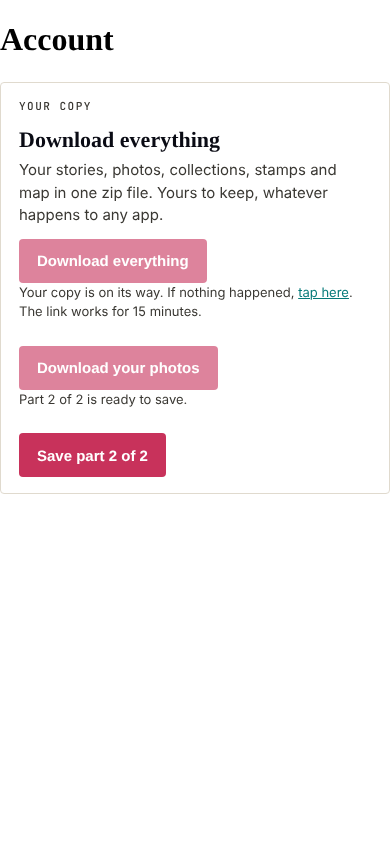
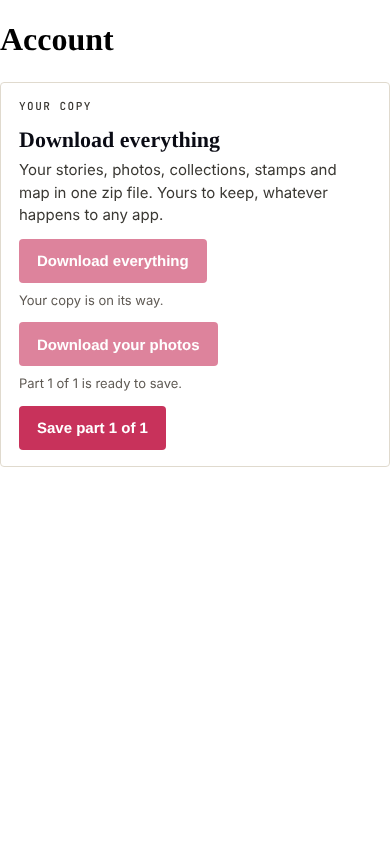
Download everything, Phase 1B third round: every part saves on its own tap, done and error cards keep their lines, names kept apart, a steady K, JSZip given 60 s, small gray message lines
- Uniform flow: part 1 waits for its "Save part N of K" tap like every later part; the tap-here link is hidden while the photo step runs and shown again when it ends or fails
- expire(): a ready card goes back to idle; a done or error card keeps its lines and loses only the link and the photo button; a photo step still running is looked at again later
- unique() file names inside the parts, the way the Worker's writeExportZip keeps them, counted per run
- K estimated from the average bytes per photo so far (min of 25 and floor(80 MB / average)), so it no longer grows by one at every part
- lib(): JSZip gets 60 s; past that the script element is removed, the fallback line shows and the buttons free up
- CSS: .tll-exp .tll-exp-msg wins over .tll-exp p (13 px, gray, 12 px above the buttons)
- test/export.test.js: canceled, American English
- scratchpad/check-export.cjs: the uniform flow, the hidden link, the link ending, the slow JSZip, duplicate names over two runs, the K estimate for a byte-first run; shots refreshed

Claude-Session: https://claude.ai/code/session_01GTTttGvX2VTwovAB2g1cLf

Changed region(s): [[0.0, 0.3389, 0.8923, 0.5853], [0.9846, 0.5545, 1.0, 0.5853]]

diff --git a/src/site-layers/tll-export-v1.js b/src/site-layers/tll-export-v1.js
@@ -6,31 +6,40 @@
    through the Worker, which keeps it inside the Free plan's CPU and subrequest limits. Step two, when the member has photos: "Download
    your photos" fetches them four at a time through GET /export/photo?t=&u= (the same token, which the proxy honors for 60 minutes; a
    same-policy, CORS-safe source, which is what iPhone Safari needed: building the zip from cross-origin fetches failed there with
-   "Load failed") and packs them with JSZip in parts of 25 photos or about 80 MB. The first part saves on the strength of the tap that
-   started the step; every later part gets its own button, "Save part N of K", because a browser allows one download without a tap and
-   then holds the rest behind a permission prompt (Chrome, Edge) or drops them (iOS Safari). While a part waits for its tap nothing more
-   is fetched, so at most one part and a few photos are in memory, and the done line only appears once every part is saved. K counts
-   this part plus one per 25 photos still to come, so it can grow by one when a part fills by bytes first. Each photo fetch gets 90 s;
-   a photo that times out or fails is listed in photos/not-downloaded.txt in the last part, never silently lost, and a fatal error
-   (JSZip missing, packing failed) stops the run so a worker still in flight cannot write over the error line. JSZip 3.10.1 loads from
-   cdnjs only when the photo button is pressed. The card CSS is added once by css(); the 31 Oct version defined it and never added it,
-   so the card rendered in the page's defaults. Message lines are hidden while empty. Card states (data-state): idle, preparing, ready,
-   photos, done, error. No data-ms-* element touched. */
+   "Load failed") and packs them with JSZip in parts of 25 photos or about 80 MB. Every part, the first included, saves only on its own
+   "Save part N of K" tap: a browser allows one download per tap, holds a second behind a permission prompt (Chrome, Edge) or drops it
+   (iOS Safari), and the tap that started the step is spent by the time part 1 is packed. While a part waits for its tap nothing more
+   is fetched, so at most one part and a few photos are in memory, and the done line only appears once every part is saved. K is an
+   estimate: this part, plus the photos still to come divided by how many fit in a part (25, or fewer when the average photo so far
+   says a part fills by bytes first), so it holds steady instead of growing by one at every part. File names inside the parts are
+   kept apart the way the Worker's writeExportZip keeps them (photo.jpg, photo-2.jpg, photo-3.jpg), counted per run. The records link
+   ("tap here") is hidden while the photo step runs and shown again when it ends or fails. Each photo fetch gets 90 s; a photo that
+   times out or fails is listed in photos/not-downloaded.txt in the last part, never silently lost, and a fatal error (JSZip missing,
+   packing failed) stops the run so a worker still in flight cannot write over the error line. JSZip 3.10.1 loads from cdnjs only when
+   the photo button is pressed and gets 60 s to arrive; past that its script element is removed, the fallback line shows and the
+   buttons free up. The link ends after 15 minutes: a ready card goes back to idle, a done or error card keeps its lines and loses only
+   the link and the photo button, and a photo step still running is left to finish first. The card CSS is added once by css(); the
+   31 Oct version defined it and never added it, so the card rendered in the page's defaults. Message lines are hidden while empty.
+   Card states (data-state): idle, preparing, ready, photos, done, error. No data-ms-* element touched. */
 (function(){
 if((location.pathname.replace(/\/+$/,'')||'/')!=='/account')return;
 var API='https://tll-travel-wire.thatlayoverlife.workers.dev/export';
 var JSZIP='https://cdnjs.cloudflare.com/ajax/libs/jszip/3.10.1/jszip.min.js';
-var LINK_MS=15*60*1000,PHOTO_MS=90*1000,MAX_MAP_BYTES=190*1024,PART_PHOTOS=25,PART_BYTES=80*1024*1024,WORKERS=4,REVOKE_MS=60000;
+var LINK_MS=15*60*1000,RECHECK_MS=60*1000,PHOTO_MS=90*1000,LIB_MS=60*1000,MAX_MAP_BYTES=190*1024,PART_PHOTOS=25,PART_BYTES=80*1024*1024,WORKERS=4,REVOKE_MS=60000;
 var CSS='.tll-exp{max-width:760px;margin:24px auto;padding:16px 18px;border:1px solid #E0DACE;border-radius:4px;background:#fff;font:400 15px/1.5 "IBM Plex Sans Condensed",system-ui,sans-serif;color:#0A0B14}'+
 '.tll-exp [hidden]{display:none!important}'+
 '.tll-exp-k{font:600 11px/1.4 "JetBrains Mono",ui-monospace,monospace;letter-spacing:1.5px;text-transform:uppercase;color:#067A79;margin:0 0 6px}'+
 '.tll-exp h3{font:800 22px/1.2 "Playfair Display",Georgia,serif;margin:0 0 6px}.tll-exp p{margin:0 0 12px;color:#3a3833}'+
 '.tll-exp button{border:0;background:#C8325B;color:#fff;border-radius:4px;min-height:44px;padding:0 18px;font:600 15px/1 "IBM Plex Sans Condensed",sans-serif;cursor:pointer}.tll-exp button[disabled]{opacity:.6;cursor:wait}'+
-'.tll-exp-msg{font-size:13px;color:#5F5A54;margin:8px 0 0}.tll-exp-msg a{color:#067A79;text-decoration:underline}.tll-exp-msg+button{margin-top:12px}';
+/* Two classes, so the message rule beats ".tll-exp p" above: the lines keep their smaller size and gray, and a button after one sits 12 px below it. */
+'.tll-exp .tll-exp-msg{font-size:13px;color:#5F5A54;margin:8px 0 0}.tll-exp .tll-exp-msg a{color:#067A79;text-decoration:underline}.tll-exp .tll-exp-msg+button{margin-top:12px}';
 function css(){if(document.getElementById('tll-export-v1'))return;var s=document.createElement('style');s.id='tll-export-v1';s.textContent=CSS;document.head.appendChild(s);}
 function el(t,c,txt){var e=document.createElement(t);if(c)e.className=c;if(txt!=null)e.textContent=txt;return e;}
 function tok(){try{var ms=window.$memberstackDom;return ms&&ms.getMemberCookie?ms.getMemberCookie():'';}catch(e){return'';}}
-function lib(){return window.JSZip?Promise.resolve(window.JSZip):new Promise(function(res,rej){var s=document.createElement('script');s.src=JSZIP;s.crossOrigin='anonymous';s.onload=function(){res(window.JSZip);};s.onerror=rej;document.head.appendChild(s);});}
+/* JSZip on demand, with 60 s to arrive: a script that never answers is removed, so the step fails cleanly and can be tried again. */
+function lib(){if(window.JSZip)return Promise.resolve(window.JSZip);return new Promise(function(res,rej){var s=document.createElement('script'),t=setTimeout(fail,LIB_MS);
+  function fail(){clearTimeout(t);s.onload=s.onerror=null;s.remove();rej(new Error('JSZip did not load.'));}
+  s.src=JSZIP;s.crossOrigin='anonymous';s.onload=function(){clearTimeout(t);res(window.JSZip);};s.onerror=fail;document.head.appendChild(s);});}
 function mapData(){var local=null;try{local=JSON.parse(localStorage.getItem('tllStates')||'null');}catch(e){}if(local)return Promise.resolve(local);
   var ms=window.$memberstackDom;if(!ms||!ms.getMemberJSON)return Promise.resolve(null);return ms.getMemberJSON().then(function(j){var d=j&&j.data||{};return d.tllStates||null;}).catch(function(){return null;});}
 function ext(type,url){if(/png/.test(type))return'png';if(/webp/.test(type))return'webp';if(/gif/.test(type))return'gif';var m=/\.(jpe?g|png|webp|gif)(\?|$)/i.exec(url||'');return m?m[1].toLowerCase().replace('jpeg','jpg'):'jpg';}
@@ -47,17 +56,21 @@ function run(){
   function state(){return box.getAttribute('data-state');}
   /* The same link again, for a browser that swallowed the first navigation. */
   function again(){var a=el('a','','tap here');a.href=url;a.addEventListener('click',function(ev){ev.preventDefault();window.location.assign(url);});return a;}
-  /* A message line; an empty one is hidden so the card holds no blank space. */
+  /* A message line; an empty one is hidden so the card holds no blank space. The link part sits in its own span, so it can be hidden on its own. */
   function line(node,text,withLink){node.textContent='';if(text)node.appendChild(document.createTextNode(text));
-    if(withLink&&url){node.appendChild(document.createTextNode(' If nothing happened, '));node.appendChild(again());node.appendChild(document.createTextNode('. The link works for 15 minutes.'));}
+    if(withLink&&url){var sp=el('span','tll-exp-again');sp.appendChild(document.createTextNode(' If nothing happened, '));sp.appendChild(again());sp.appendChild(document.createTextNode('. The link works for 15 minutes.'));node.appendChild(sp);}
     node.hidden=!node.childNodes.length;}
-  function set(s){box.setAttribute('data-state',s);b.disabled=s==='preparing'||s==='photos';pb.disabled=s==='photos';pb.hidden=!(url&&photos.length);}
-  /* The save button for one part: the tap on it is the gesture the browser wants for every download after the first. */
+  /* What the link allows right now: the tap-here link while the records step is the one in view, the photo button while there are photos. */
+  function links(){var sp=msg.querySelector('.tll-exp-again');if(sp)sp.hidden=!url||state()==='photos';pb.hidden=!(url&&photos.length);}
+  function set(s){box.setAttribute('data-state',s);b.disabled=s==='preparing'||s==='photos';pb.disabled=s==='photos';links();}
+  /* The save button for one part: the tap on it is the gesture the browser wants for every download. */
   function offer(text,fn){pending=fn;sb.textContent=text;sb.hidden=false;}
   function withdraw(){pending=null;sb.hidden=true;}
   function reset(){clearTimeout(timer);timer=null;url='';token='';photos=[];withdraw();line(msg,'');line(pmsg,'');set('idle');}
-  /* The link ends after 15 minutes; a photo step still running (or waiting for a tap) is left to finish first. */
-  function expire(){if(state()==='photos'){timer=setTimeout(expire,60000);return;}reset();}
+  /* The link ends after 15 minutes. A photo step still running (or waiting for a tap) is left to finish first and looked at again later;
+     a done or error card keeps its lines and loses only the link and the photo button; a ready card goes back to idle. */
+  function expire(){var s=state();timer=null;if(s==='photos'){timer=setTimeout(expire,RECHECK_MS);return;}
+    if(s==='done'||s==='error'){url='';token='';photos=[];links();return;}reset();}
   reset();
   sb.addEventListener('click',function(){var fn=pending;if(!fn)return;withdraw();fn();});
   b.addEventListener('click',function(){reset();set('preparing');line(msg,'Gathering your stories and records…');
@@ -76,24 +89,28 @@ function run(){
       timer=setTimeout(expire,LINK_MS);
     }).catch(function(e){reset();set('error');line(msg,(e&&e.fromWorker&&e.message)||'The download did not finish. Try again.');});
   });
-  /* Step two: every photo through the Worker's proxy, four at a time, packed in parts; the first part saves at once, the rest on their own tap. */
+  /* Step two: every photo through the Worker's proxy, four at a time, packed in parts; each part saves on its own tap. */
   pb.addEventListener('click',function(){
     if(!url||!photos.length||state()==='photos')return;
-    set('photos');var list=photos.slice(),total=list.length,missing=[],done=0,okCount=0,partNo=0,saved=0,stopped=false,live=[];line(pmsg,'Photos 0 of '+total+'…');
+    set('photos');var list=photos.slice(),total=list.length,missing=[],done=0,okCount=0,allBytes=0,partNo=0,saved=0,stopped=false,live=[],used=Object.create(null);line(pmsg,'Photos 0 of '+total+'…');
     /* A fatal error stops the run: no more fetches, the ones in flight are cut off, and no worker writes another line. */
     function stop(){stopped=true;withdraw();live.splice(0).forEach(function(c){try{c.abort();}catch(e){}});}
     function progress(){if(!stopped&&!pending)line(pmsg,'Photos '+done+' of '+total+'…');}
+    /* A file name not used yet in this run, the way the Worker's writeExportZip keeps names apart: photo.jpg, photo-2.jpg, photo-3.jpg. */
+    function unique(name){var n=name,i=2;while(used[n]){n=name.replace(/(\.[^./]+)?$/,'-'+i+'$1');i++;}used[n]=true;return n;}
+    /* How many photos fit in a part: 25, or fewer when the average photo so far fills the 80 MB first. */
+    function perPart(){var avg=okCount?allBytes/okCount:0;return avg?Math.max(1,Math.min(PART_PHOTOS,Math.floor(PART_BYTES/avg))):PART_PHOTOS;}
     lib().then(function(Z){
       var zip=new Z(),count=0,bytes=0,packing=Promise.resolve();
       function save(blob,n){var a=el('a');a.href=URL.createObjectURL(blob);a.download='that-layover-life-photos-part-'+n+'.zip';document.body.appendChild(a);a.click();saved++;setTimeout(function(){URL.revokeObjectURL(a.href);a.remove();},REVOKE_MS);}
-      /* Takes the current part off the table at once (a new one starts) and packs it after any earlier part is saved. The first part
-         saves on the tap that started the step; a later part waits for its own tap, and every fetch behind it waits too. */
-      function pack(last){var z=zip,n=++partNo,k=n+Math.ceil(Math.max(0,last?0:total-done-1)/PART_PHOTOS);zip=new Z();count=0;bytes=0;
+      /* Takes the current part off the table at once (a new one starts), packs it after any earlier part is saved, then waits for its own
+         tap; every fetch behind it waits too. K is this part plus the parts the photos still to come should need. */
+      function pack(last){var z=zip,n=++partNo,k=n+Math.ceil(Math.max(0,last?0:total-done-1)/perPart());zip=new Z();count=0;bytes=0;
         if(last&&missing.length)z.file('that-layover-life/photos/not-downloaded.txt','These photos could not be downloaded, so here are their links:\n'+missing.join('\n')+'\n');
-        packing=packing.then(function(){return z.generateAsync({type:'blob'});}).then(function(blob){if(stopped)return;if(n===1){save(blob,n);return;}
+        packing=packing.then(function(){return z.generateAsync({type:'blob'});}).then(function(blob){if(stopped)return;
           return new Promise(function(res){offer('Save part '+n+' of '+k,function(){save(blob,n);if(done<total)progress();res();});line(pmsg,'Part '+n+' of '+k+' is ready to save.');});});
         packing.catch(function(){});return packing;}
-      function add(p,blob){zip.file('that-layover-life/photos/'+p.folder+'/'+p.name+'.'+ext(blob.type,p.url),blob);count++;bytes+=blob.size;okCount++;
+      function add(p,blob){zip.file(unique('that-layover-life/photos/'+p.folder+'/'+p.name+'.'+ext(blob.type,p.url)),blob);count++;bytes+=blob.size;allBytes+=blob.size;okCount++;
         if(count>=PART_PHOTOS||bytes>=PART_BYTES)pack(false);}
       /* One photo, with 90 s to arrive in full: a stalled body is cut off and the photo is listed as a link like any other failure. */
       function one(p){var c=window.AbortController?new AbortController():null,t=c?setTimeout(function(){c.abort();},PHOTO_MS):null;if(c)live.push(c);

diff --git a/test/export.test.js b/test/export.test.js
@@ -220,12 +220,12 @@ describe('POST /export/prepare and GET /export/zip', () => {
   });
 });
 
-/** An upstream answer whose body records whether it was cancelled. */
+/** An upstream answer whose body records whether it was canceled. */
 function upstream({ status = 200, type = 'image/jpeg', bytes = AVATAR, url = '' } = {}) {
-  const cancelled = [];
-  const body = new ReadableStream({ start(c) { c.enqueue(bytes); c.close(); }, cancel(reason) { cancelled.push(reason ?? 'cancelled'); } });
+  const canceled = [];
+  const body = new ReadableStream({ start(c) { c.enqueue(bytes); c.close(); }, cancel(reason) { canceled.push(reason ?? 'canceled'); } });
   const headers = new Headers(); if (type) headers.set('content-type', type);
-  return { response: { status, ok: status >= 200 && status < 300, url, headers, body }, cancelled };
+  return { response: { status, ok: status >= 200 && status < 300, url, headers, body }, canceled };
 }
 
 describe('GET /export/photo', () => {
@@ -276,13 +276,13 @@ describe('GET /export/photo', () => {
       const res = await w.photo(token, `${CDN}/avatar.jpg`, { fetchImpl: async () => up.response });
       expect([name, res.status]).toEqual([name, 502]);
       expect([name, res.headers.get('Access-Control-Allow-Origin')]).toEqual([name, SITE]);
-      // The upstream body is cancelled, never left to drain.
-      expect([name, up.cancelled.length]).toEqual([name, 1]);
+      // The upstream body is canceled, never left to drain.
+      expect([name, up.canceled.length]).toEqual([name, 1]);
     }
     // Redirects are followed: a legacy host that lands on the CDN is fine, the second host check is what refused evil.example above.
     const fine = upstream({ url: 'https://cdn.prod.website-files.com/avatar.jpg' });
     expect((await w.photo(token, 'https://uploads-ssl.webflow.com/avatar.jpg', { fetchImpl: async () => fine.response })).status).toBe(200);
-    expect(fine.cancelled).toHaveLength(0);
+    expect(fine.canceled).toHaveLength(0);
   });
 
   it('times only the wait for headers: 20 s without them is 504, and once they arrive the body may take as long as it takes', async () => {
